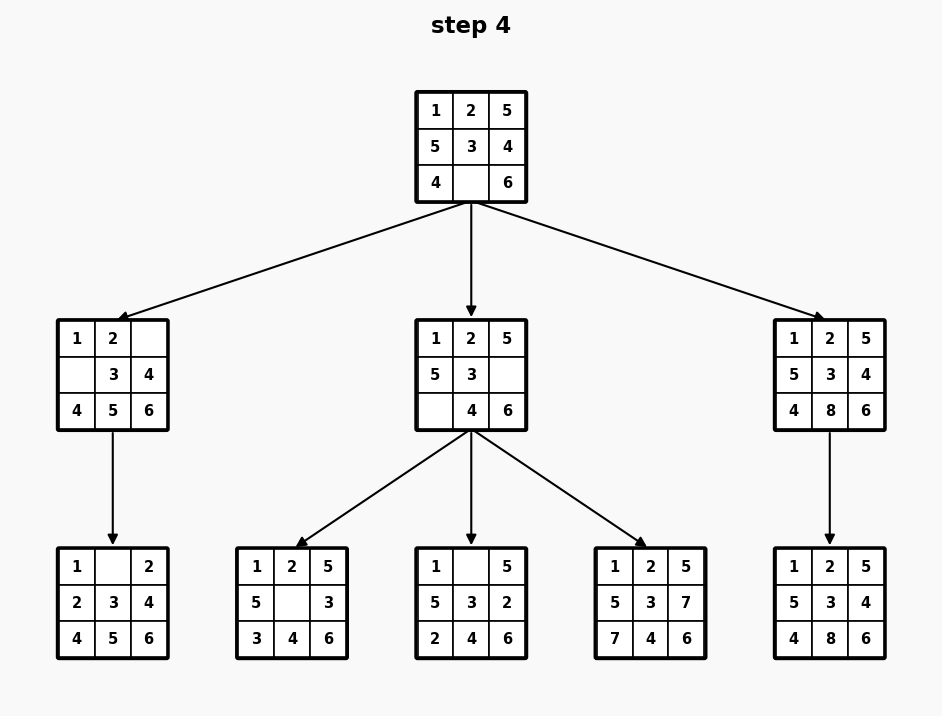
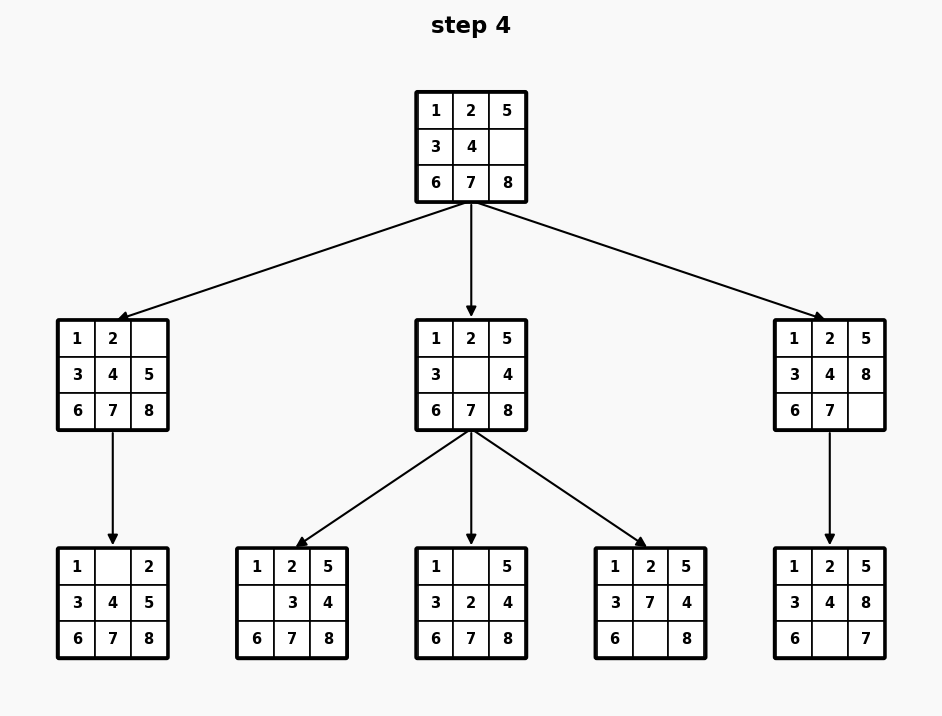
started successful integeration

diff --git a/visualizer/implement_visualizer/implement_visualizer.py b/visualizer/implement_visualizer/implement_visualizer.py
@@ -61,17 +61,13 @@ class tree_visualizer:
             """Return children map and depth map."""
             children = defaultdict(list)
             depth    = {}
-            id_map   = {n.id for n in self.tree.nodes}
 
             for node in self.tree.nodes:
-                if node.parent_id is None:
-                    depth[node.id] = 0
-                else:
-                    depth[node.id] = depth[node.parent_id] + 1
+                depth[node.id] = node.depth
                 if node.parent_id is not None:
                     children[node.parent_id].append(node.id)
 
-            return children, depth, id_map
+            return children, depth
 
 
         def _assign_x_positions(self, root_id, children, leaf_spacing=1.0):
@@ -101,7 +97,7 @@ class tree_visualizer:
             """
             Returns dict {node_id: (cx, cy)} and figure size (width, height).
             """
-            children, depth, id_map = self._build_tree_meta()
+            children, depth = self._build_tree_meta()
 
             root_id = next(n.id for n in self.tree.nodes if n.parent_id is None)
             x_pos = self._assign_x_positions(root_id, children, self.leaf_spacing) #type: ignore
@@ -126,7 +122,7 @@ class tree_visualizer:
             oy = min(all_y) - margin
             layout = {nid: (cx - ox, cy - oy) for nid, (cx, cy) in layout.items()}
 
-            return layout, (max(fig_w, 4), max(fig_h, 4)), children, depth, id_map
+            return layout, (max(fig_w, 4), max(fig_h, 4))
 
 
     def draw_grid(self, ax, state, cx, cy, red=False, orange=False):
@@ -147,7 +143,7 @@ class tree_visualizer:
 
         for i in range(3):
             for j in range(3):
-                val = state[i * 2 + j] # mapping i,j to 1D list index
+                val = state[i * 3 + j] # mapping i,j to 1D list index
                 rx  = x0 + j * self.CELL # cell's left edge
                 ry  = y0 + (2 - i) * self.CELL # cell's bottom edge (i=0 is top row)
 
@@ -175,7 +171,7 @@ class tree_visualizer:
 
     def render_tree(self, tree: tree_data, title="", out_file="tree.png"):
 
-        layout, (fig_w, fig_h), children, depth, id_map = self.tree_layout(tree, level_height=self.level_height, leaf_spacing=self.leaf_spacing).compute_layout()
+        layout, (fig_w, fig_h) = self.tree_layout(tree, level_height=self.level_height, leaf_spacing=self.leaf_spacing).compute_layout()
         # compute_layout(tree, level_height=level_height, leaf_spacing=leaf_spacing)
 
         fig, ax = plt.subplots(figsize=(fig_w, fig_h))
@@ -214,10 +210,10 @@ if __name__ == "__main__":
     from adapter import tree_data, tree_data_node
 
     nodes = [
-        tree_data_node(1, [1,2,3,4,5,6,7,8,0], None, "Start", False),
-        tree_data_node(2, [1,2,3,4,5,6,7,0,8], 1, "Move 8 left", False),
-        tree_data_node(3, [1,2,3,4,5,6,0,7,8], 1, "Move 7 up", True),
-        tree_data_node(4, [1,2,3,4,5,0,7,8], 2, "Move 6 up", False),
+        tree_data_node(1, [1,2,3,4,5,6,7,8,0], 1, None, "Start", False),
+        tree_data_node(2, [1,2,3,4,5,6,7,0,8], 2, 1, "Move 8 left", False),
+        tree_data_node(3, [1,2,3,4,5,6,0,7,8], 2, 1, "Move 7 up", True),
+        tree_data_node(4, [1,2,3,4,5,0,7,8], 3, 2, "Move 6 up", False),
     ]
     tree = tree_data(nodes)
     drawer = tree_visualizer()

diff --git a/visualizer/implement_visualizer/adapter.py b/visualizer/implement_visualizer/adapter.py
@@ -1,9 +1,10 @@
 from algorithms.state import board_state
 
 class tree_data_node:
-    def __init__(self, id, state, parent_id, label, heuristic, colour=None):
+    def __init__(self, id, state, level, parent_id, label, heuristic, colour=None):
         self.id = id
         self.state = state
+        self.depth = level - 1
         self.parent_id = parent_id
         self.label = label
         self.heuristic = heuristic  
@@ -13,12 +14,12 @@ class tree_data:
     def __init__(self, list_of_nodes: list[tree_data_node]):
         self.nodes = list_of_nodes
 
-    def add_node(self, id, state:list, parent_id, heuristic, colour=None):
+    def add_node(self, id, state:list, level:int, parent_id, heuristic, colour=None):
         label = ""
         if heuristic is not None:
             label = f"{heuristic}"
 
-        node = tree_data_node(id, state, parent_id, label, heuristic, colour)
+        node = tree_data_node(id, state, level, parent_id, label, heuristic, colour)
         self.nodes.append(node)
 
 class state_to_tree_adapter(tree_data):
@@ -26,20 +27,20 @@ class state_to_tree_adapter(tree_data):
         super().__init__([])
         self._convert_state(explored, frontier, final_state)
 
-    def _convert_state(self, explored, frontier, final_state=None):
+    def _convert_state(self, explored: set[board_state], frontier: set[board_state], final_state: board_state|None=None):
         if final_state:
             red_path = set(final_state.get_path())
         for state in explored:
             state_id = hash(state)
             parent_id = hash(state.parent) if state.parent else None
             if final_state and (state in red_path): #type: ignore
-                self.add_node(state_id, state.board_list, parent_id, heuristic=state.cost_f, colour="red")
+                self.add_node(state_id, state.board_list, state.level, parent_id, heuristic=state.cost_f, colour="red")
             else:
-                self.add_node(state_id, state.board_list, parent_id, heuristic=state.cost_f)
+                self.add_node(state_id, state.board_list, state.level, parent_id, heuristic=state.cost_f)
         for state in frontier:
             state_id = hash(state)
             parent_id = hash(state.parent) if state.parent else None
-            self.add_node(state_id, state.board_list, parent_id, heuristic=state.cost_f, colour="orange")
+            self.add_node(state_id, state.board_list, state.level, parent_id, heuristic=state.cost_f, colour="orange")
 
 """
 I added colours to node but not using them yet

diff --git a/visualizer/tree_drawer.py b/visualizer/tree_drawer.py
@@ -10,5 +10,5 @@ class tree_drawer:
         self.visualizer.level_height = level_height
         self.visualizer.leaf_spacing = leaf_spacing
         self.adapter = state_to_tree_adapter(explored, frontier, final_state)
-        self.visualizer.render_tree(self.adapter, title=title, out_file=out_file)
+        self.visualizer.render_tree(self.adapter, title=title, out_file=out_file) # type: ignore
 

diff --git a/algorithms/state.py b/algorithms/state.py
@@ -63,6 +63,10 @@ class board_state:
     @property
     def board_list(self):
         return self.board.board_list
+    
+    @property
+    def level(self):
+        return self.cost
 
     def is_goal(self) -> bool:
         return self.board.goal_test()

diff --git a/test.py b/test.py
@@ -25,6 +25,6 @@ def test_visuals():
     result: algorithms.result|None = solver.bfs(True)
 
 if __name__ == "__main__":
-    test_bfs()
-    # test_visuals()
+    # test_bfs()
+    test_visuals()
 
